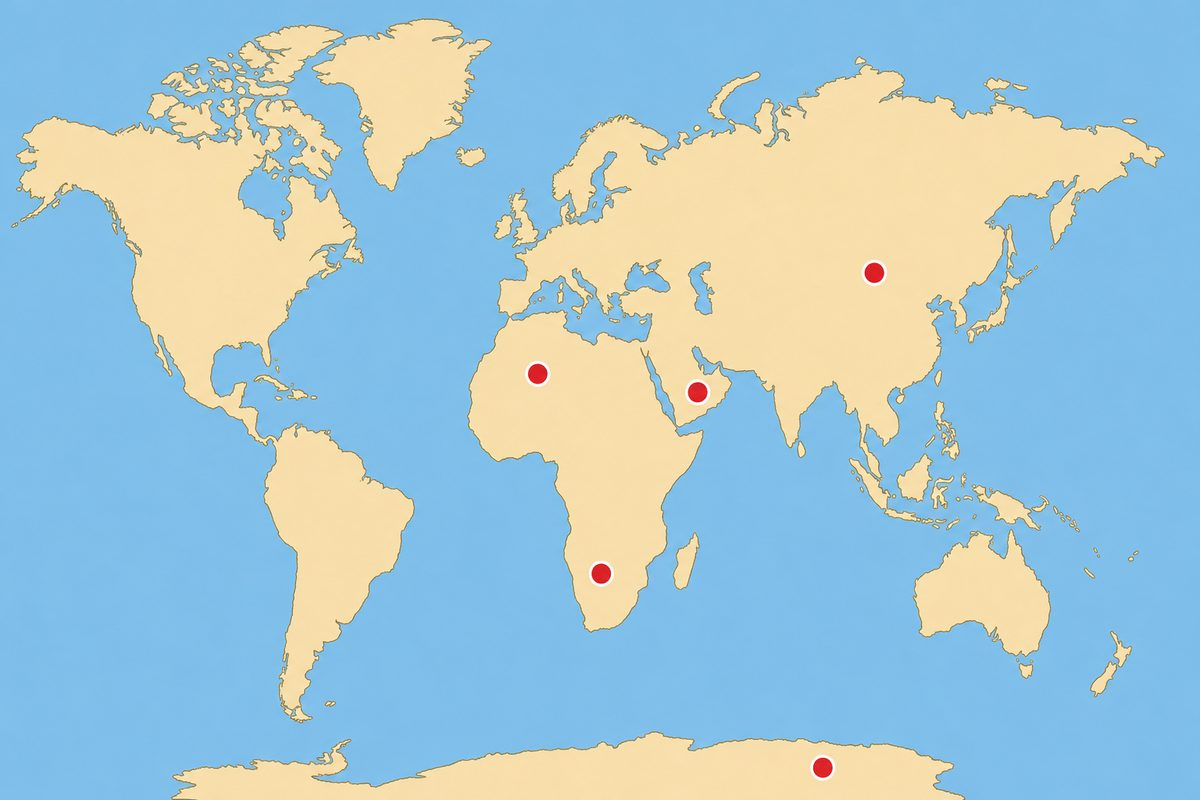
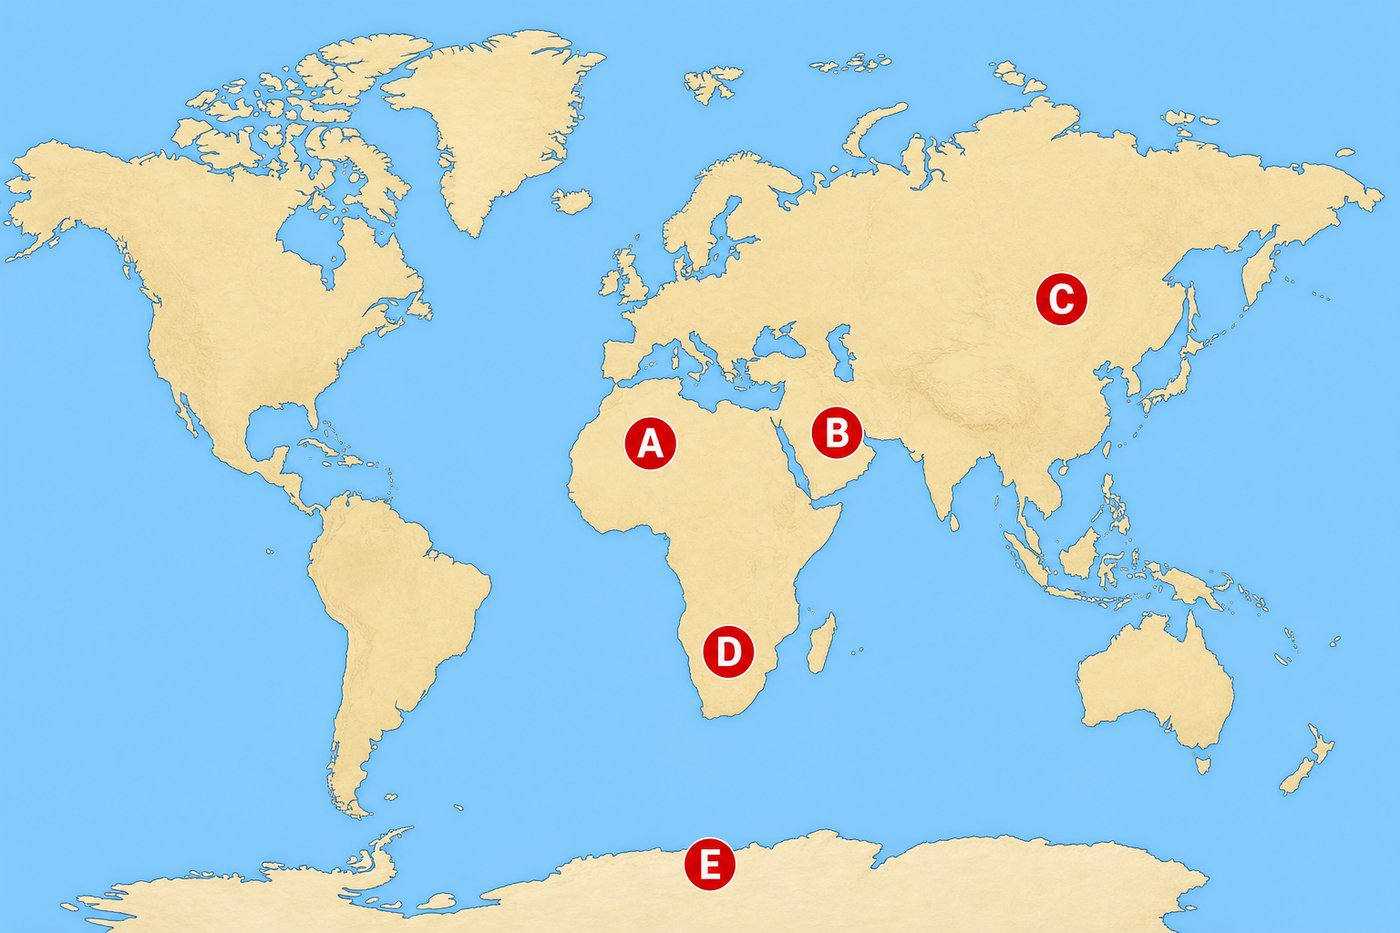
feat(exam): 地图题改为 A–E 标注并填写沙漠名与大洲
更新世界地图为 A–E 标记；给出沙漠名称词库；去掉大洲/中文提示，
每题填写 Desert 与 Continent。

diff --git a/Psle/xiaoshengchu_exam_01/index.html b/Psle/xiaoshengchu_exam_01/index.html
@@ -316,10 +316,10 @@ textarea.ans {
     <div id="desertFill"></div>
     <h4 style="margin:14px 0 8px;font-size:14px;">B. 选择题</h4>
     <div id="desertMc"></div>
-    <h4 style="margin:14px 0 8px;font-size:14px;">C. 世界地图 · 填入知名沙漠位置</h4>
+    <h4 style="margin:14px 0 8px;font-size:14px;">C. 世界地图 · 写出沙漠名称与大洲</h4>
     <p class="sec-lead" id="mapInstruction"></p>
-    <div class="desert-bank no-print" id="desertBank"></div>
-    <div class="map-wrap"><img id="desertMapImg" alt="World deserts map" /></div>
+    <div class="desert-bank" id="desertBank"></div>
+    <div class="map-wrap"><img id="desertMapImg" alt="World deserts map with A–E markers" /></div>
     <div class="map-slots" id="mapSlots"></div>
   </section>
 
@@ -665,8 +665,11 @@ textarea.ans {
   });
   $("#mapInstruction").textContent = D.deserts.map.instruction;
   $("#desertMapImg").src = D.deserts.map.image;
-  // shuffle bank chips
-  const mapNames = D.deserts.map.slots.map((s) => s.name);
+  const bankTitle = document.createElement("div");
+  bankTitle.style.cssText = "width:100%;font-size:13px;color:var(--muted);margin-bottom:4px";
+  bankTitle.textContent = "沙漠名称（选用）：";
+  $("#desertBank").appendChild(bankTitle);
+  const mapNames = (D.deserts.map.desertBank || D.deserts.map.slots.map((s) => s.name)).slice();
   shuffle(mapNames).forEach((name) => {
     const chip = document.createElement("span");
     chip.className = "desert-chip";
@@ -676,7 +679,7 @@ textarea.ans {
       e.dataTransfer.setData("text/plain", name);
     });
     chip.addEventListener("click", () => {
-      const empty = $$(".map-input").find((inp) => !inp.value);
+      const empty = $$(".map-input-desert").find((inp) => !inp.value);
       if (empty) empty.value = name;
     });
     $("#desertBank").appendChild(chip);
@@ -684,14 +687,17 @@ textarea.ans {
   D.deserts.map.slots.forEach((s) => {
     const row = document.createElement("div");
     row.className = "map-slot-row q-item";
-    row.innerHTML = "<strong>" + esc(s.code) + ".</strong> <span style=\"color:var(--muted);font-size:13px\">" + esc(s.region) + " / " + esc(s.nameZh) + "</span> " +
-      "<input class=\"map-input\" name=\"map_" + s.code + "\" data-answer=\"" + esc(s.name) + "\" placeholder=\"填入沙漠英文名\" style=\"min-width:12em\">" +
-      "<div class=\"sample-ans\">答案：" + esc(s.name) + "</div>";
-    const inp = row.querySelector("input");
-    inp.addEventListener("dragover", (e) => e.preventDefault());
-    inp.addEventListener("drop", (e) => {
-      e.preventDefault();
-      inp.value = e.dataTransfer.getData("text/plain");
+    row.innerHTML =
+      "<strong>" + esc(s.code) + ".</strong> " +
+      "<span>Desert:</span> <input class=\"map-input map-input-desert\" name=\"map_desert_" + s.code + "\" data-answer=\"" + esc(s.name) + "\" placeholder=\"沙漠英文名\" style=\"min-width:11em\"> " +
+      "<span>Continent:</span> <input class=\"map-input map-input-continent\" name=\"map_cont_" + s.code + "\" data-answer=\"" + esc(s.continent) + "\" data-alts='" + esc(JSON.stringify(s.continentAlts || [])) + "' placeholder=\"大洲英文名\" style=\"min-width:9em\">" +
+      "<div class=\"sample-ans\">答案：Desert — " + esc(s.name) + "；Continent — " + esc(s.continent) + "</div>";
+    $$("input.map-input-desert", row).forEach((inp) => {
+      inp.addEventListener("dragover", (e) => e.preventDefault());
+      inp.addEventListener("drop", (e) => {
+        e.preventDefault();
+        inp.value = e.dataTransfer.getData("text/plain");
+      });
     });
     $("#mapSlots").appendChild(row);
   });
@@ -903,11 +909,18 @@ textarea.ans {
     });
     D.deserts.map.slots.forEach((s) => {
       max += 0.8;
-      const inp = $("[name=map_" + s.code + "]");
-      const ok = matchText(inp.value, s.name, [s.nameZh, s.name.replace(" Ice Sheet", "")]);
-      if (ok) got += 0.8;
-      markInput(inp, ok);
-      detail.push({ part: "VI-地图", id: s.code, ok, ans: s.name });
+      const dInp = $("[name=map_desert_" + s.code + "]");
+      const cInp = $("[name=map_cont_" + s.code + "]");
+      const okD = matchText(dInp && dInp.value, s.name, [s.nameZh, s.name.replace(" Ice Sheet", ""), "Antarctic"]);
+      const okC = matchText(cInp && cInp.value, s.continent, s.continentAlts || []);
+      // 沙漠与大洲各半：合计仍约 0.8/题 → 5 题共 4 分（与原先地图分值一致）
+      let pts = 0;
+      if (okD) pts += 0.4;
+      if (okC) pts += 0.4;
+      got += pts;
+      markInput(dInp, okD);
+      markInput(cInp, okC);
+      detail.push({ part: "VI-地图", id: s.code, ok: okD && okC, ans: s.name + " / " + s.continent });
     });
     // reading 3 x 2 = 6
     D.extra.reading.questions.forEach((q) => {

diff --git a/Psle/xiaoshengchu_exam_01/exam-data.js b/Psle/xiaoshengchu_exam_01/exam-data.js
@@ -410,13 +410,14 @@ window.EXAM_DATA = {
     ],
     map: {
       image: "images/world-deserts-map.jpg",
-      instruction: "根据世界地图，将下列沙漠名称填入对应编号位置（部分地图已标注，请核对并补全答案）。",
+      instruction: "地图上已标出 A–E。选用下方沙漠英文名称，写出每个位置的 Desert（沙漠名）与 Continent（大洲名）。",
+      desertBank: ["Sahara", "Arabian", "Gobi", "Kalahari", "Antarctic Ice Sheet"],
       slots: [
-        { code: "A", name: "Sahara", nameZh: "撒哈拉", region: "Northern Africa" },
-        { code: "B", name: "Arabian", nameZh: "阿拉伯沙漠", region: "Southwestern Asia" },
-        { code: "C", name: "Gobi", nameZh: "戈壁", region: "Mongolia & China" },
-        { code: "D", name: "Kalahari", nameZh: "卡拉哈里", region: "Southwestern Africa" },
-        { code: "E", name: "Antarctic Ice Sheet", nameZh: "南极冰盖", region: "Antarctica" }
+        { code: "A", name: "Sahara", nameZh: "撒哈拉", continent: "Africa", continentAlts: ["Africa", "Northern Africa", "North Africa"] },
+        { code: "B", name: "Arabian", nameZh: "阿拉伯沙漠", continent: "Asia", continentAlts: ["Asia", "Southwestern Asia", "Southwest Asia", "Western Asia", "West Asia", "Middle East"] },
+        { code: "C", name: "Gobi", nameZh: "戈壁", continent: "Asia", continentAlts: ["Asia", "East Asia", "Eastern Asia", "Central Asia"] },
+        { code: "D", name: "Kalahari", nameZh: "卡拉哈里", continent: "Africa", continentAlts: ["Africa", "Southern Africa", "South Africa", "Southwestern Africa", "Southwest Africa"] },
+        { code: "E", name: "Antarctic Ice Sheet", nameZh: "南极冰盖", continent: "Antarctica", continentAlts: ["Antarctica", "Antarctic", "the Antarctic"] }
       ]
     }
   },
